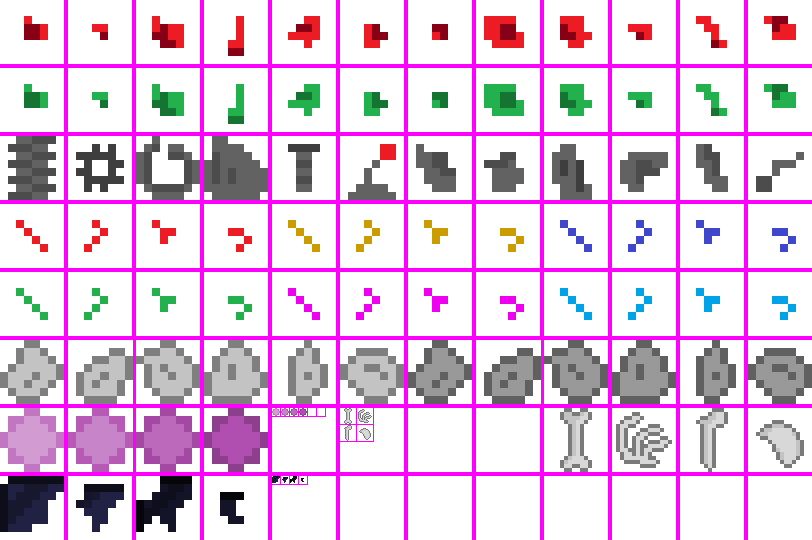
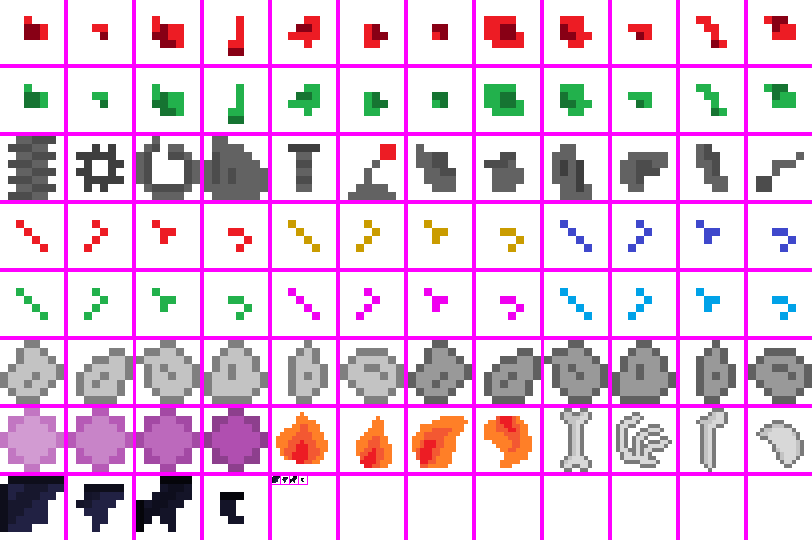
build

Changed region(s): [[0.3387, 0.7407, 0.6773, 0.8889]]

diff --git a/app/src/audioManager/musicPlayer.js b/app/src/audioManager/musicPlayer.js
@@ -15,12 +15,20 @@ const MusicPlayer = {
         if(!MusicPlayer.songs[MusicPlayer.songIndex].isOn()){
             MusicPlayer.songIndex++;
             MusicPlayer.songIndex = MusicPlayer.songIndex < MusicPlayer.songs.length ? MusicPlayer.songIndex : 0;
+            MusicPlayer.songs[MusicPlayer.songIndex].rewind();
             MusicPlayer.songs[MusicPlayer.songIndex].play();
         }
     },
 
+    isOn() {
+        return this.interval ? true : false;
+    },
+
     start() {
         if(!this.interval){
+            if (this.songs[this.songIndex]){
+                this.songs[this.songIndex].play();
+            }
             this.interval = setInterval(this.playMusic, 5000);
         }
     }, 
@@ -29,10 +37,15 @@ const MusicPlayer = {
         clearInterval(this.interval);
         this.songs[this.songIndex].pause();
         this.interval = null;
+    },
+
+    toggle(){
+        if(this.isOn()){
+            this.stop();
+        } else {
+            this.start();
+        }
     }
-
-
-
 
 }
 

diff --git a/app/index.html b/app/index.html
@@ -81,6 +81,7 @@
 	<script src="src/gameplay/entities/particles/sparkParticle.js"></script>
 	<script src="src/gameplay/entities/particles/smokeParticle.js"></script>
 	<script src="src/gameplay/entities/particles/gelBlobParticle.js"></script>
+	<script src="src/gameplay/entities/particles/fireParticle.js"></script>
 	<script src="src/gameplay/entities/particles/chestSplinterParticle.js"></script>
 	<script src="src/gameplay/entities/particles/particleSpawner.js"></script>
 	<script src="src/gameplay/entities/players/player.js"></script>

diff --git a/app/templates/options.html b/app/templates/options.html
@@ -1,5 +1,6 @@
 <div class='menu-background'>
     <div class='title-text-box'>OPTIONS</div>
     <div class='clickable-text seq_fade_in_text_2' onclick="FullScreenToggler.toggle()">FULLSCREEN</div>
-    <div class='clickable-text seq_fade_in_text_3' onclick="GuiLoader.loadMainMenu()">RETURN</div>
+    <div class='clickable-text seq_fade_in_text_3' onclick="MusicPlayer.toggle()">MUSIC</div>
+    <div class='clickable-text seq_fade_in_text_4' onclick="GuiLoader.loadMainMenu()">RETURN</div>
 </div>

diff --git a/app/src/gameplay/entities/particles/fireParticle.js b/app/src/gameplay/entities/particles/fireParticle.js
@@ -1,0 +1,19 @@
+"use strict";
+class FireParticle extends _Particle {
+
+    constructor(direction, x, y){
+        super(Util.randInt(1, 360), x, y);
+        this.duration = Util.randInt(30, 50);
+        this.displaySize = Util.randFloat(1.2, 1.5);
+        this.speed = Util.randFloat(0.03, 0.07);
+        this.tileX = Util.randInt(4, 7);
+        this.tileY = 6;
+        this.opacity = 0.6;
+    }
+
+    animate(){
+        this.rotate(2);
+        this.opacity -= 0.005;
+    }
+
+}

diff --git a/app/src/gameplay/entities/projectiles/playerProjectiles/weapon7Y3Projectile.js b/app/src/gameplay/entities/projectiles/playerProjectiles/weapon7Y3Projectile.js
@@ -32,7 +32,7 @@ class Weapon7Y3Projectile extends _DamagingProjectile {
 
     _onExpire(){
         super._onExpire();
-        ParticleSpawner.createExplosion(YellowSparkParticle,  this.x, this.y, Util.randInt(50, 100));
+        ParticleSpawner.createExplosion(FireParticle,  this.x, this.y, Util.randInt(30, 40));
         ParticleSpawner.createExplosion(LastingSmoke,  this.x, this.y, Util.randInt(20, 30));
         
         StageManager.currentStage.monsters.forEach(m => {

diff --git a/app/src/audioManager/audioWrapper.js b/app/src/audioManager/audioWrapper.js
@@ -30,6 +30,10 @@ class AudioWrapper {
         this.audioInstances.forEach(e => e.pause());
     }
 
+    rewind(){
+        this.audioInstances.forEach(i => i.currentTime = 0);
+    }
+
     isOn(){
         var on = false;
         this.audioInstances.forEach(e =>{

diff --git a/build.py b/build.py
@@ -2,7 +2,7 @@ import os
 
 
 version = 0
-subversion = 12
+subversion = 13
 package_name = f'laser-wizard-{version}-{subversion}'
 
 commands = [
